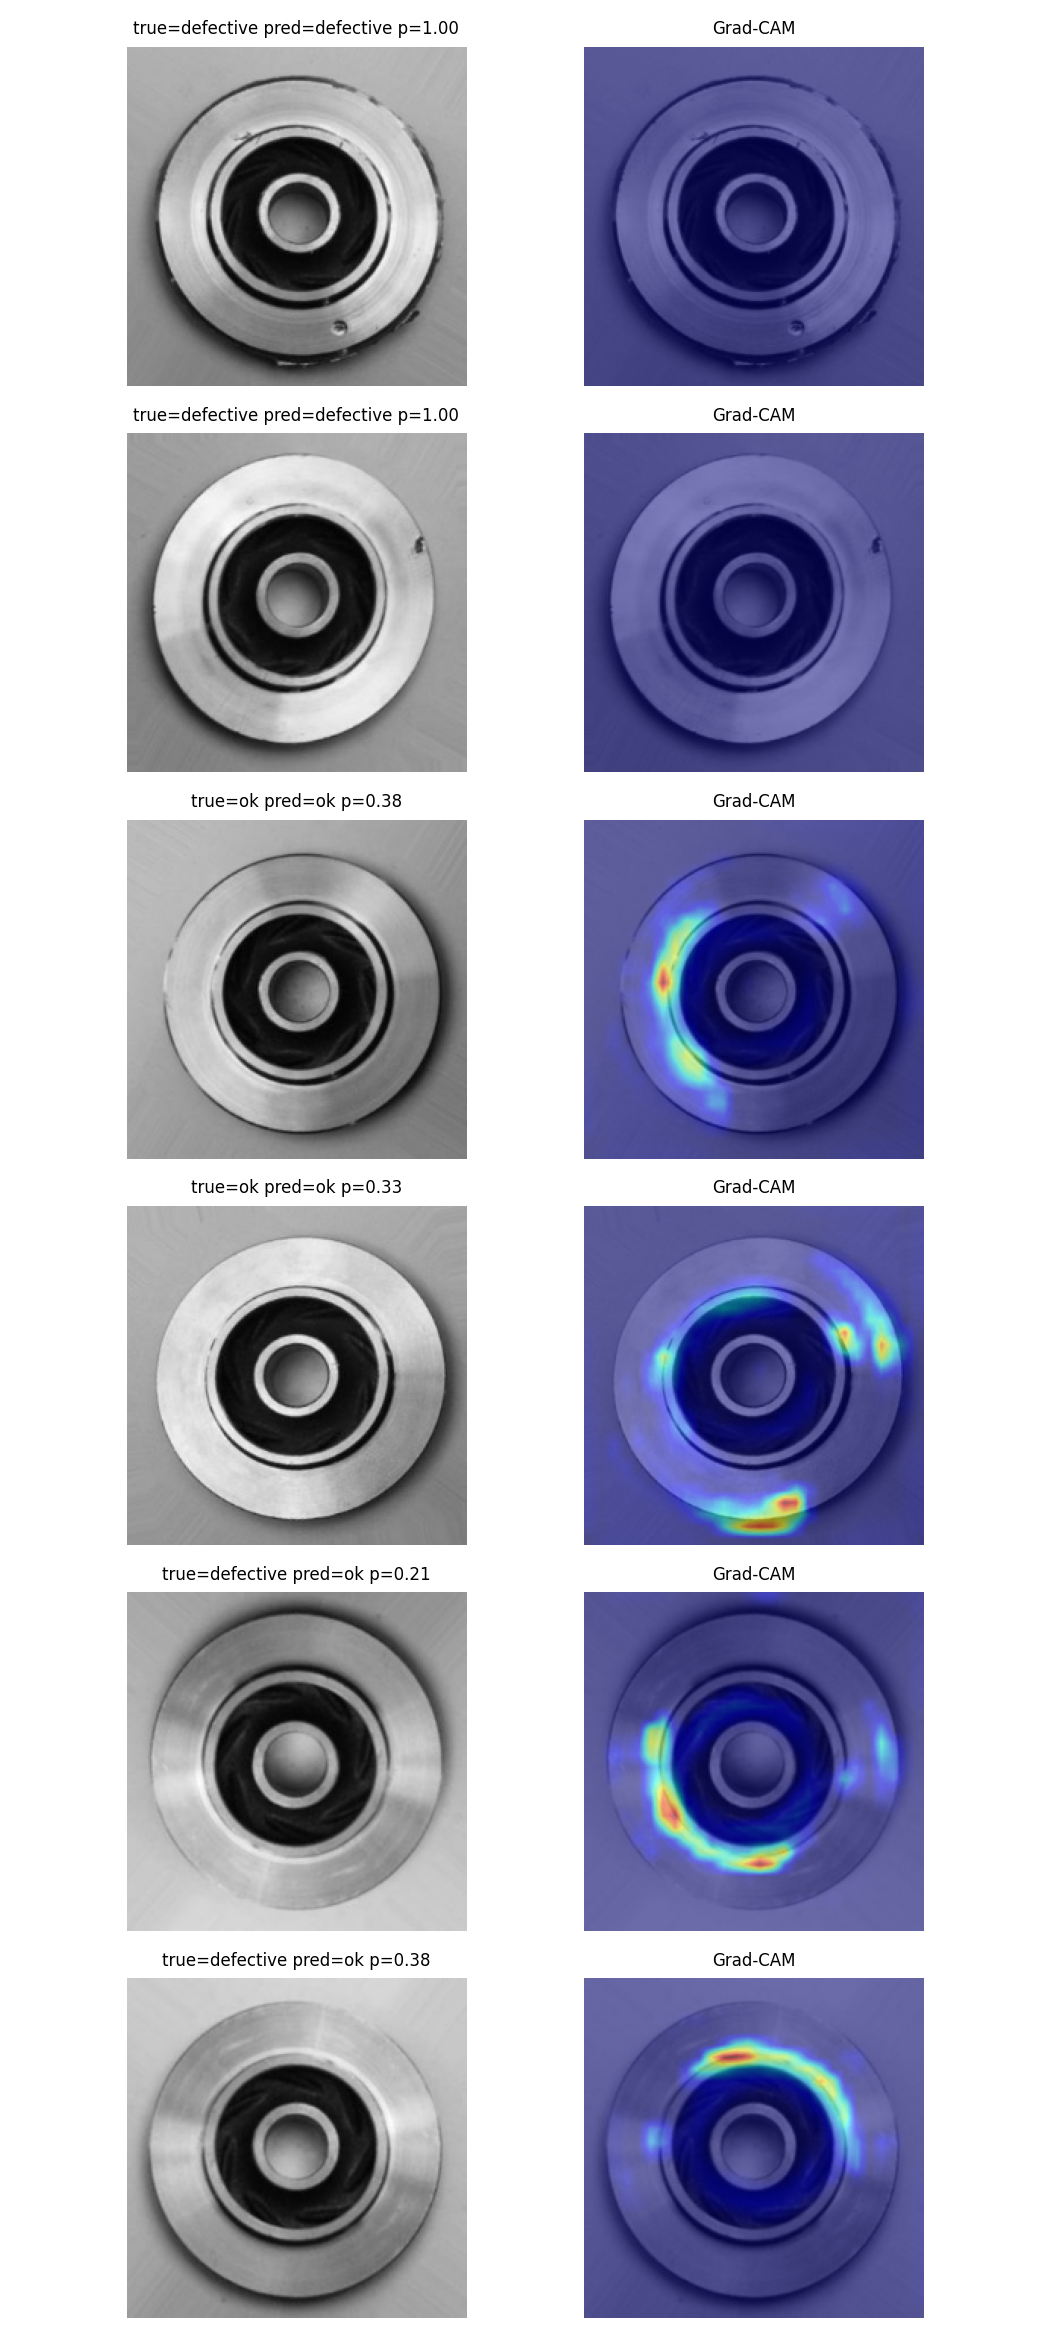
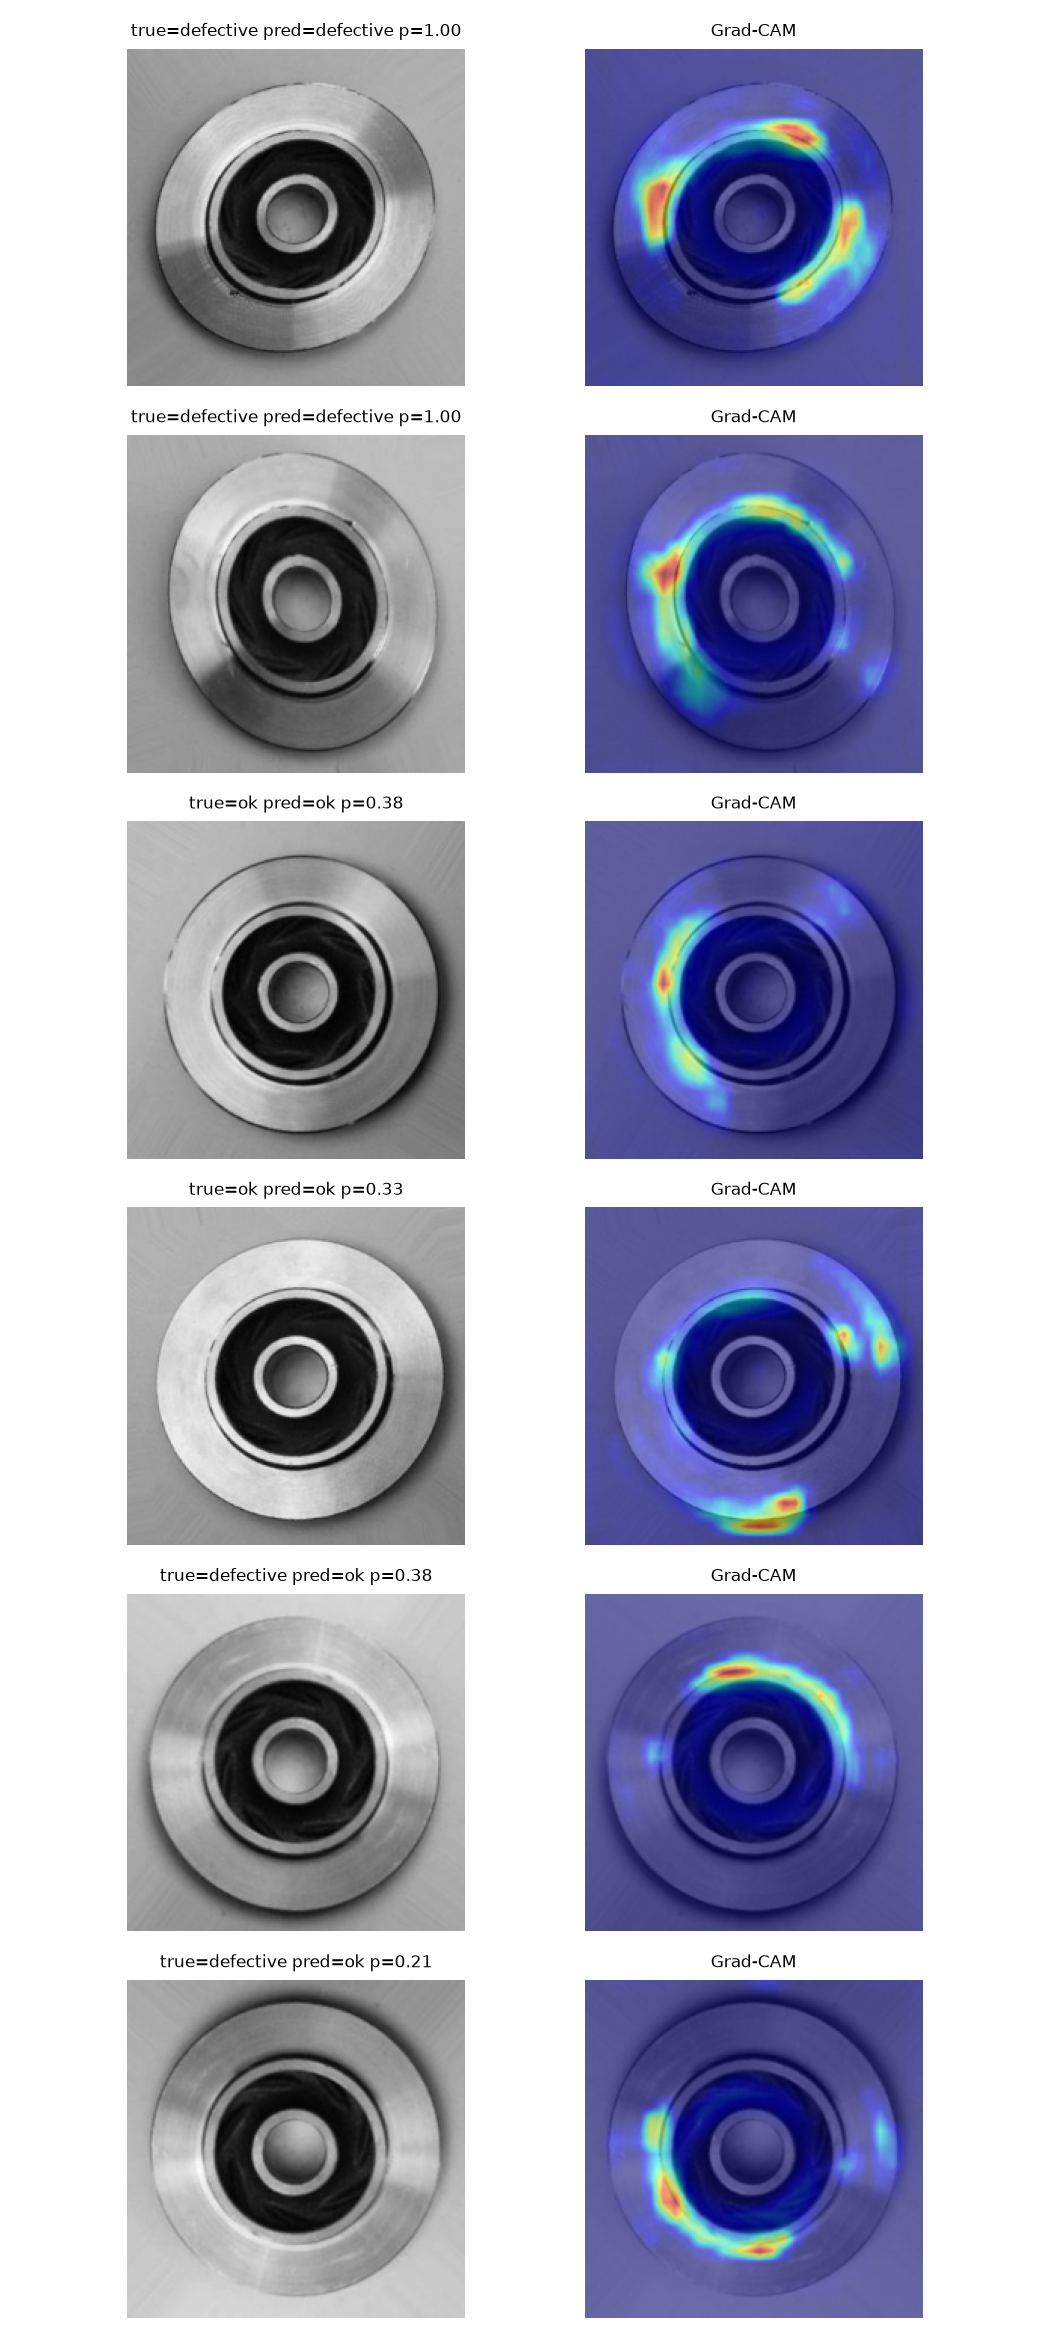
Grad-CAM: differentiate the logit, not the saturated probability
The heatmap went blank for confident predictions (p=1.000): a saturated
sigmoid has ~0 gradient, so differentiating the probability gave an all-zero
CAM. This hit exactly the clearest defects, leaving only mid-confidence images
with a visible heatmap. Differentiate the pre-sigmoid logit (read from the
final Dense layer's weights) instead, which never saturates.

Fixes blank heatmaps on defective images in the Streamlit app and the notebook,
and regenerates results/gradcam.png with the corrected figure.

diff --git a/app/streamlit_app.py b/app/streamlit_app.py
@@ -43,17 +43,27 @@ def preprocess(pil_img):
 def grad_cam(model, arr, conv_name):
     # Standard Grad-CAM: weight the last conv feature maps by the gradient of the
     # defective score, then keep the positive part and normalise to 0-1.
-    grad_model = keras.models.Model(model.inputs,
-                                    [model.get_layer(conv_name).output, model.output])
+    #
+    # IMPORTANT: we must differentiate the *logit* (the raw pre-sigmoid score),
+    # not the probability that the model outputs. For a very confident defect the
+    # sigmoid saturates to exactly 1.0 in float32, and the gradient of a saturated
+    # sigmoid is ~0 -> a flat, useless heatmap. We also cannot rebuild the logit
+    # from the probability with log(p/(1-p)): once p has rounded to 1.0 the
+    # original score is already lost. So we read the logit straight from the final
+    # Dense layer's weights, applied to the features feeding into it. The logit
+    # keeps growing with confidence, so its gradient never vanishes.
+    dense = model.layers[-1]  # the Dense(1, activation="sigmoid") output layer
+    grad_model = keras.models.Model(
+        model.inputs,
+        [model.get_layer(conv_name).output, dense.input]  # conv maps + pre-sigmoid features
+    )
     x = tf.convert_to_tensor(arr[None], dtype=tf.float32)
     with tf.GradientTape() as tape:
-        conv_out, preds = grad_model(x)
-        # Use the logit (pre-sigmoid score), not the probability. The gradient of
-        # the probability vanishes when the sigmoid saturates, so a very confident
-        # "defective" at p=1.000 would give a flat heatmap. The logit does not
-        # saturate, so we reconstruct it from the probability: logit = log(p/(1-p)).
-        p = tf.clip_by_value(preds[:, 0], 1e-6, 1.0 - 1e-6)
-        loss = tf.math.log(p) - tf.math.log(1.0 - p)
+        conv_out, features = grad_model(x)
+        tape.watch(conv_out)
+        # Re-apply the Dense layer linearly (no sigmoid): logit = features @ W + b.
+        logit = tf.matmul(features, dense.kernel) + dense.bias
+        loss = logit[:, 0]
     grads = tape.gradient(loss, conv_out)[0]
     weights = tf.reduce_mean(grads, axis=(0, 1))
     cam = tf.nn.relu(tf.reduce_sum(conv_out[0] * weights, axis=-1))